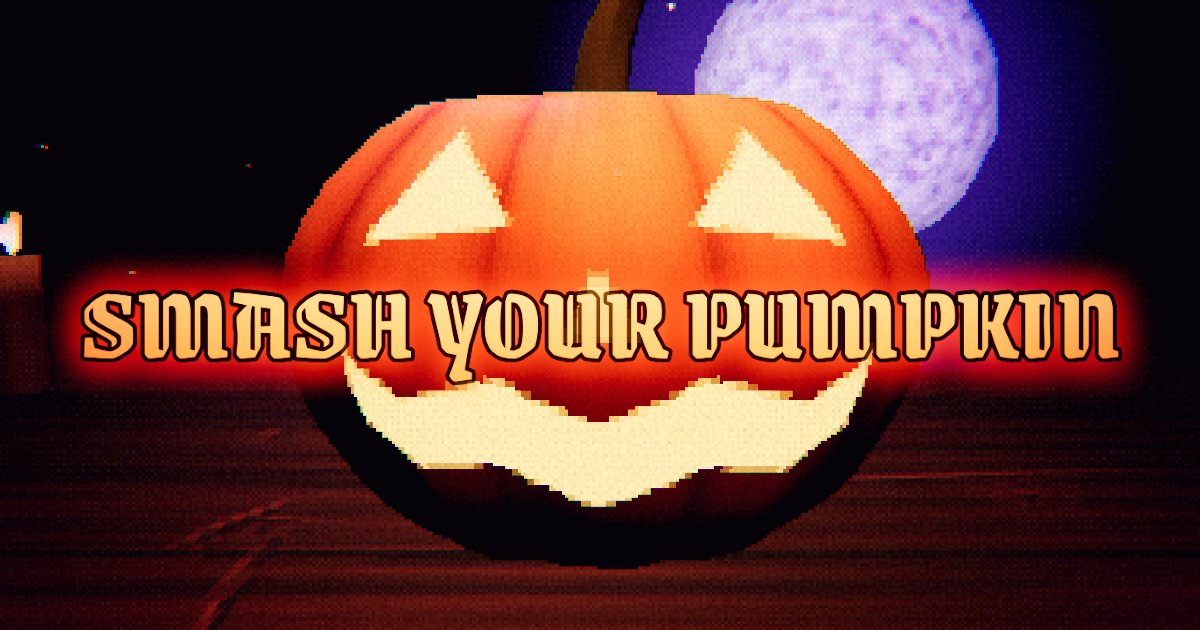
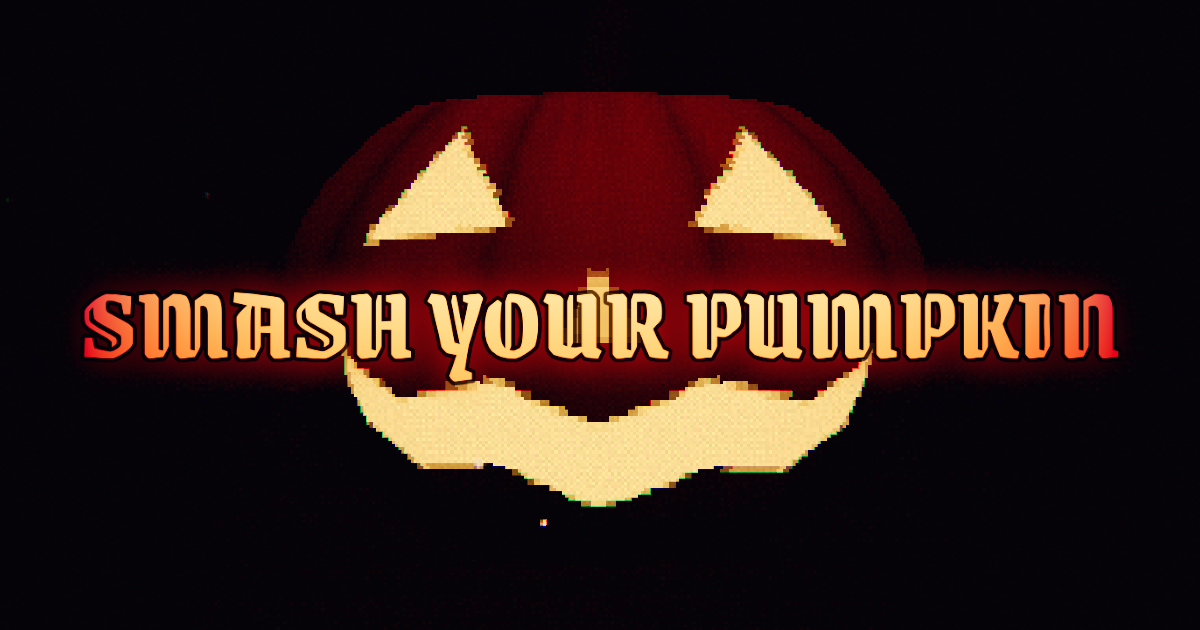
Light the key art like the Inscryption cover
In ?cover mode the room goes almost black: no moon, dust or candles, the
lights reduced to a deep red graze on the skin and thicker fog, so the
carved eyes and grin do the lighting. Face glow is now a shared uniform
(gameplay value unchanged); the cover sets its own. The title's glow is a
darker ember so it doesn't wash over the pumpkin.

Claude-Session: https://claude.ai/code/session_01FvQx2HVCfoZmvo2wAnZAg2

diff --git a/src/world/Cabin.js b/src/world/Cabin.js
@@ -58,7 +58,8 @@ export class Cabin {
   }
 
   addLights() {
-    this.scene.add(new THREE.HemisphereLight(0x4b2a6e, 0x0a0410, 0.6));
+    this.hemisphere = new THREE.HemisphereLight(0x4b2a6e, 0x0a0410, 0.6);
+    this.scene.add(this.hemisphere);
 
     const moonLight = new THREE.DirectionalLight(PALETTE.moon, 1.1);
     moonLight.position.set(-2, 7, -6);
@@ -202,7 +203,7 @@ export class Cabin {
     group.add(light);
 
     this.scene.add(group);
-    return { light, base: 4 + height * 2, boost: 1, seed: Math.random() * 100 };
+    return { group, light, base: 4 + height * 2, boost: 1, seed: Math.random() * 100 };
   }
 
   addMoon() {
@@ -223,6 +224,7 @@ export class Cabin {
     moon.position.copy(MOON_POSITION);
     moon.lookAt(0, 2, 5);
     this.scene.add(moon);
+    this.moon = moon;
 
     // Soft halo sprite behind it.
     const haloMaterial = new THREE.SpriteNodeMaterial({ transparent: true, depthWrite: false, fog: false });
@@ -233,6 +235,7 @@ export class Cabin {
     halo.scale.setScalar(12);
     halo.position.copy(moon.position).add(new THREE.Vector3(0, 0, -1));
     this.scene.add(halo);
+    this.halo = halo;
   }
 
   addDust() {
@@ -254,6 +257,24 @@ export class Cabin {
     dust.frustumCulled = false;
     this.scene.add(dust);
     this.dust = dust;
+  }
+
+  /**
+   * Key-art lighting, like the Inscryption cover: the room almost black, the
+   * pumpkin only grazed by a deep red glow so its carving does the lighting.
+   */
+  setCoverLighting() {
+    this.moon.visible = false;
+    this.halo.visible = false;
+    this.dust.visible = false;
+    this.candles.forEach((c) => (c.group.visible = false));
+    this.moonLight.intensity = 0.05;
+    this.lantern.intensity = 4;
+    this.lantern.color.set(0x8a1606);
+    this.hemisphere.intensity = 0.08;
+    this.keyBase = 1.2;
+    this.key.color.set(0x7a1004);
+    this.scene.fog.density = 0.12;
   }
 
   update(elapsed) {

diff --git a/src/pumpkins/materials.js b/src/pumpkins/materials.js
@@ -28,6 +28,9 @@ const cache = new Map();
 const appear = uniform(1).onObjectUpdate(({ object }) => object.userData.appear ?? 1);
 const hit = uniform(0).onObjectUpdate(({ object }) => object.userData.hit ?? 0);
 
+/** Brightness of carved faces; the key art turns it up in the dark. */
+export const faceGlowStrength = uniform(2.6);
+
 /**
  * Burn dissolve shared by shell, flesh and stem: x = visibility, y = ember
  * rim. The noise only runs while an object is actually burning (appear < 1);
@@ -73,7 +76,7 @@ export function getPumpkinMaterials(variant, look, stemLook) {
   let faceGlow = vec3(0);
   if (look.emissiveMap) faceGlow = texture(unfiltered(look.emissiveMap), skinUV).rgb.mul(color(look.emissive));
   else if (variant.glowFromAlbedo && look.map) faceGlow = albedo.mul(smoothstep(0.55, 0.85, luminance(albedo)));
-  outer.emissiveNode = faceGlow.mul(flicker).mul(2.6).add(rim).add(flash);
+  outer.emissiveNode = faceGlow.mul(flicker).mul(faceGlowStrength).add(rim).add(flash);
   outer.opacityNode = dissolve.x;
   outer.alphaTest = 0.5;
 

diff --git a/src/game/Game.js b/src/game/Game.js
@@ -8,7 +8,7 @@ import { ease, tweens } from "../core/Tween.js";
 import { Debris } from "../fx/Debris.js";
 import { Pumpkin } from "../pumpkins/Pumpkin.js";
 import { VARIANTS } from "../pumpkins/variants.js";
-import { getPumpkinMaterials } from "../pumpkins/materials.js";
+import { faceGlowStrength, getPumpkinMaterials } from "../pumpkins/materials.js";
 import { loadPumpkinModel } from "../pumpkins/models.js";
 import { UI } from "../ui/UI.js";
 import { Cabin, MOON_POSITION } from "../world/Cabin.js";
@@ -130,6 +130,10 @@ export class Game {
     this.cameraLook.copy(COVER_LOOK);
     this.quality.set("high");
     this.cabin.setQuality(this.quality.preset);
+    this.cabin.setCoverLighting();
+    // Bright enough to bloom and spill onto the skin, low enough to stay orange.
+    faceGlowStrength.value = 1.6;
+    this.renderer.uniforms.vignette.value = 1.5;
     await this.spawnPumpkin(VARIANTS.find((v) => v.name === "Jack"));
     this.pumpkin.mesh.rotation.y = 0;
     this.ui.showCover();

diff --git a/src/ui/UI.js b/src/ui/UI.js
@@ -34,7 +34,7 @@ export class UI {
     this.tagline = add(new UIText({ text: TEXT.tagline, size: 22, ...VIOLET }));
     this.begin = add(new UIText({ text: TEXT.begin, font: "title", size: 66, wobble: 0.03 }));
     this.loading = add(new UIText({ text: TEXT.loading, font: "title", size: 54, width: 700, wobble: 0.03 }));
-    this.coverTitle = add(new UIText({ text: TEXT.title.join(" "), font: "title", size: 120, width: 1300, colors: ["#ffb347", "#ff6a10"], glow: "#ff3a00" }));
+    this.coverTitle = add(new UIText({ text: TEXT.title.join(" "), font: "title", size: 120, width: 1300, colors: ["#ffb347", "#ff6a10"], glow: "#7a1a00" }));
     this.qualityLabel = add(new UIText({ text: "", size: 16, anchor: "left", width: 260, ...VIOLET }));
 
     // HUD.
